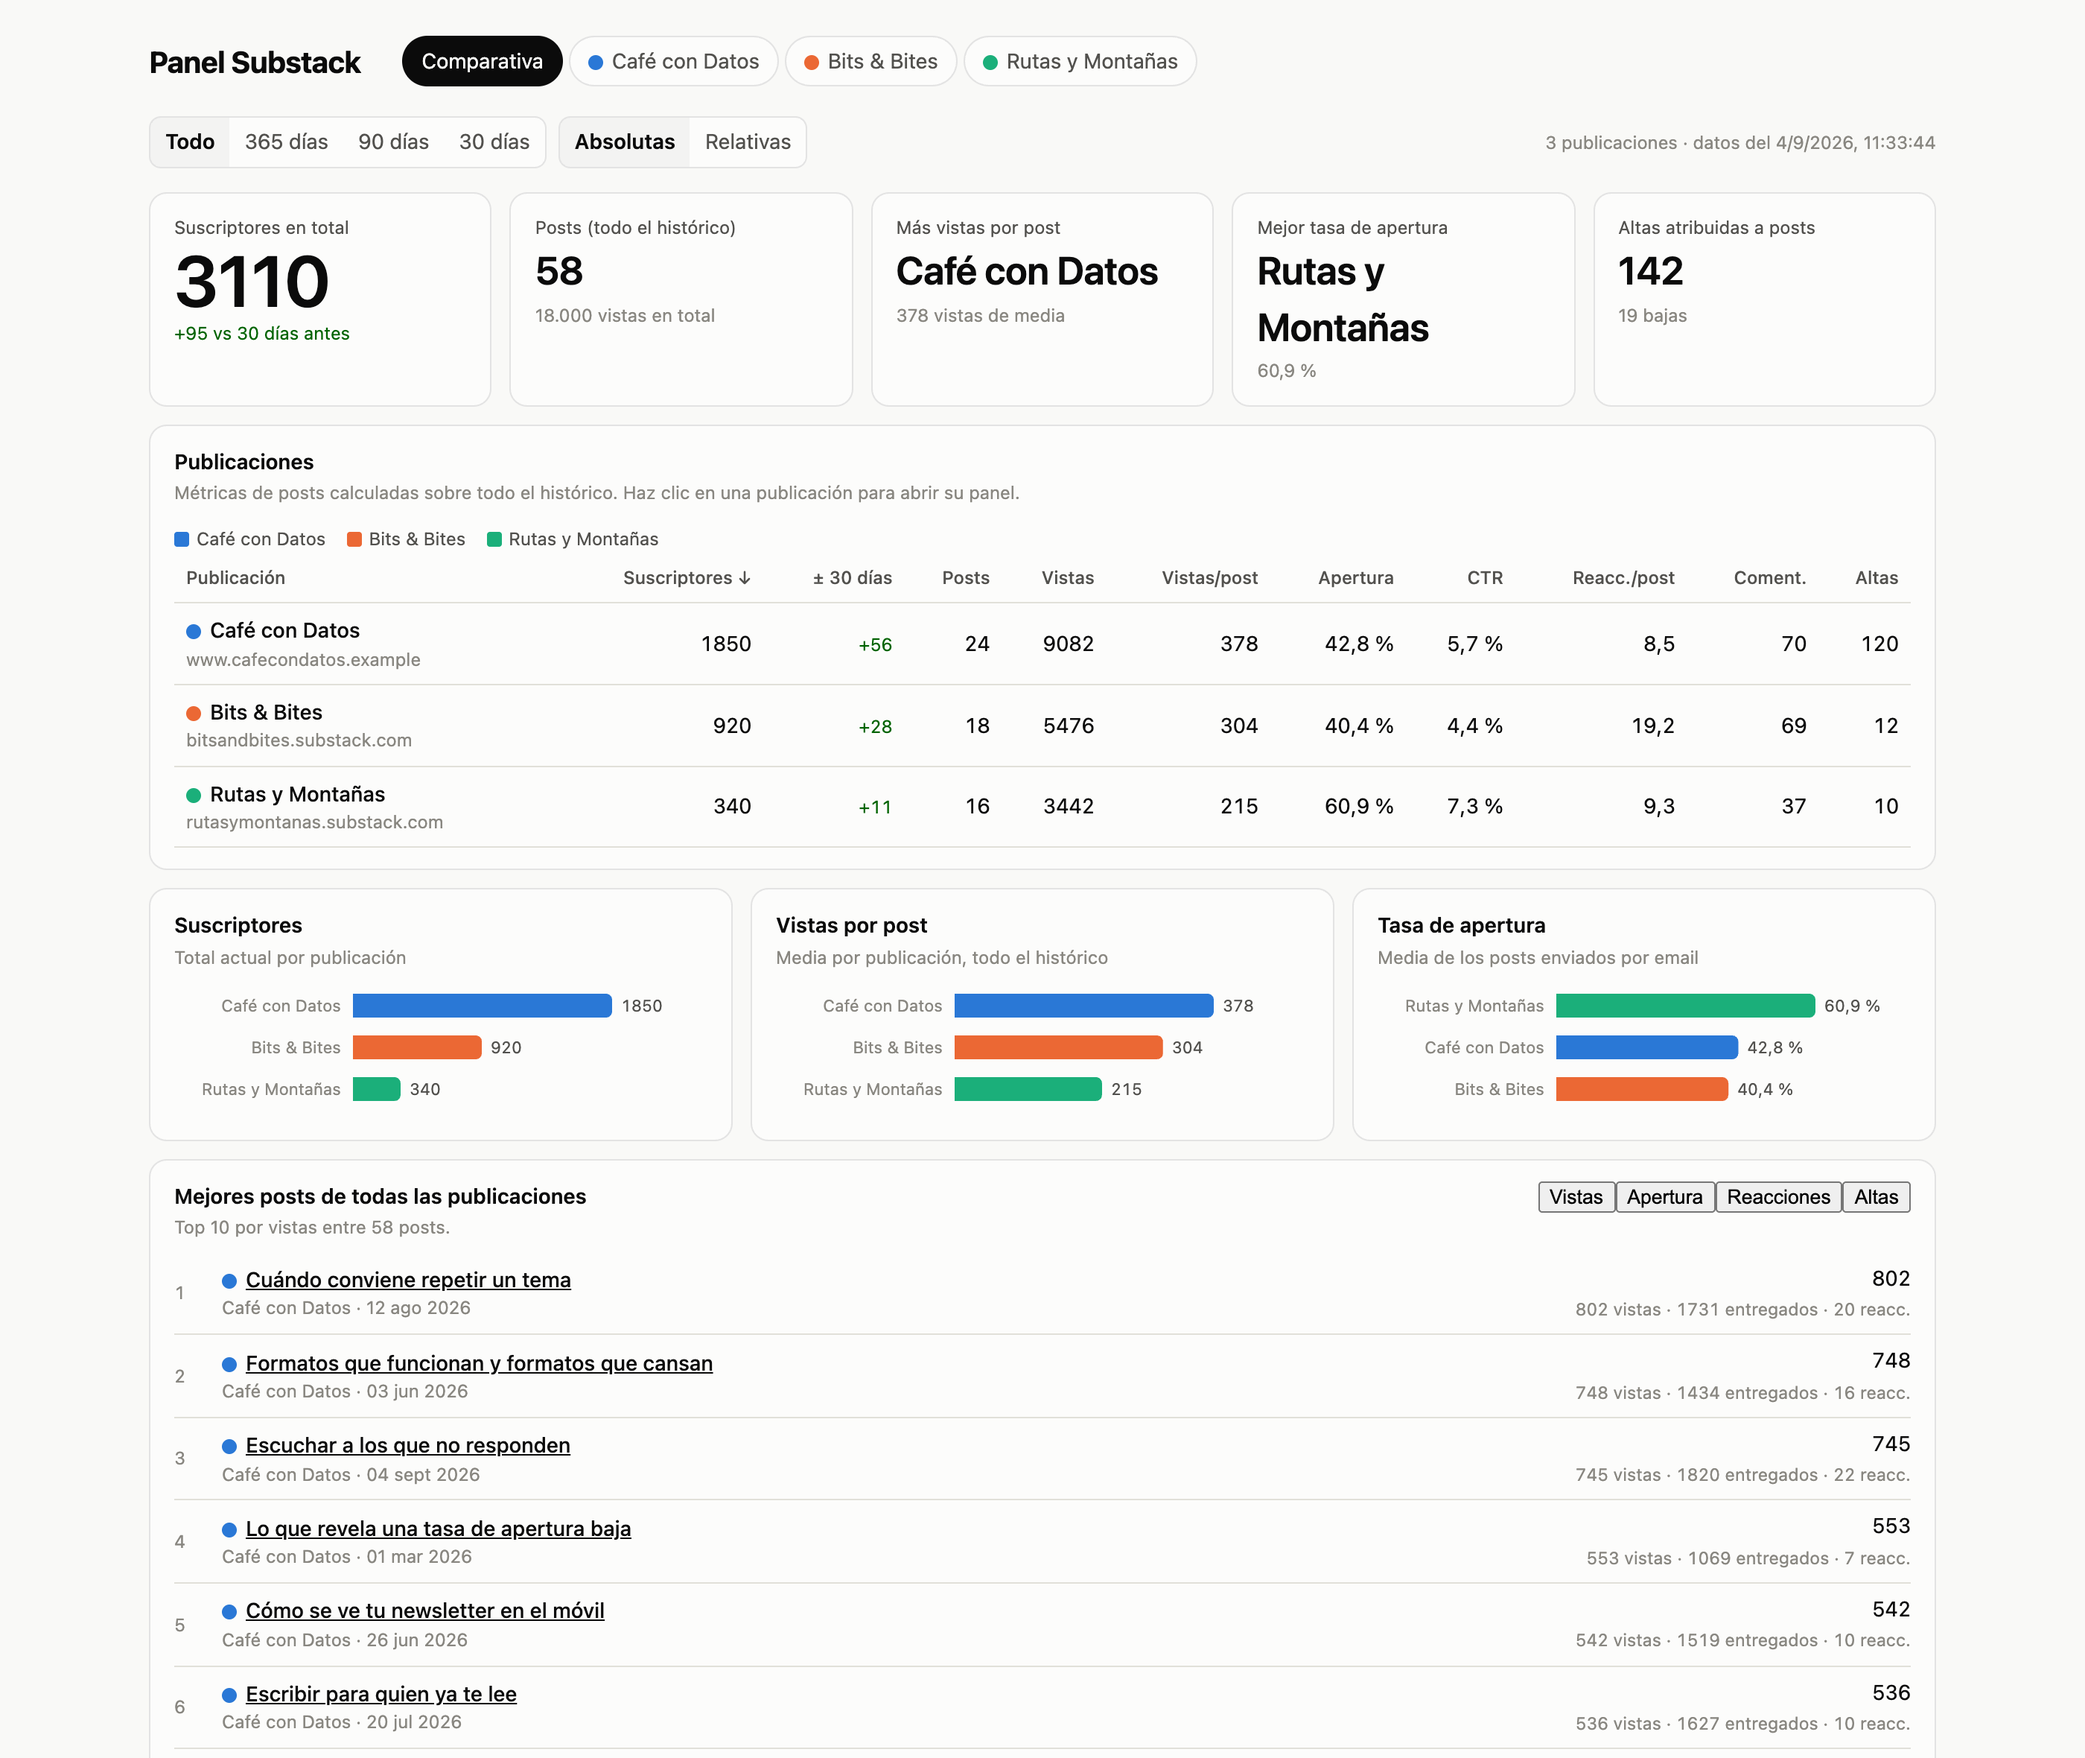
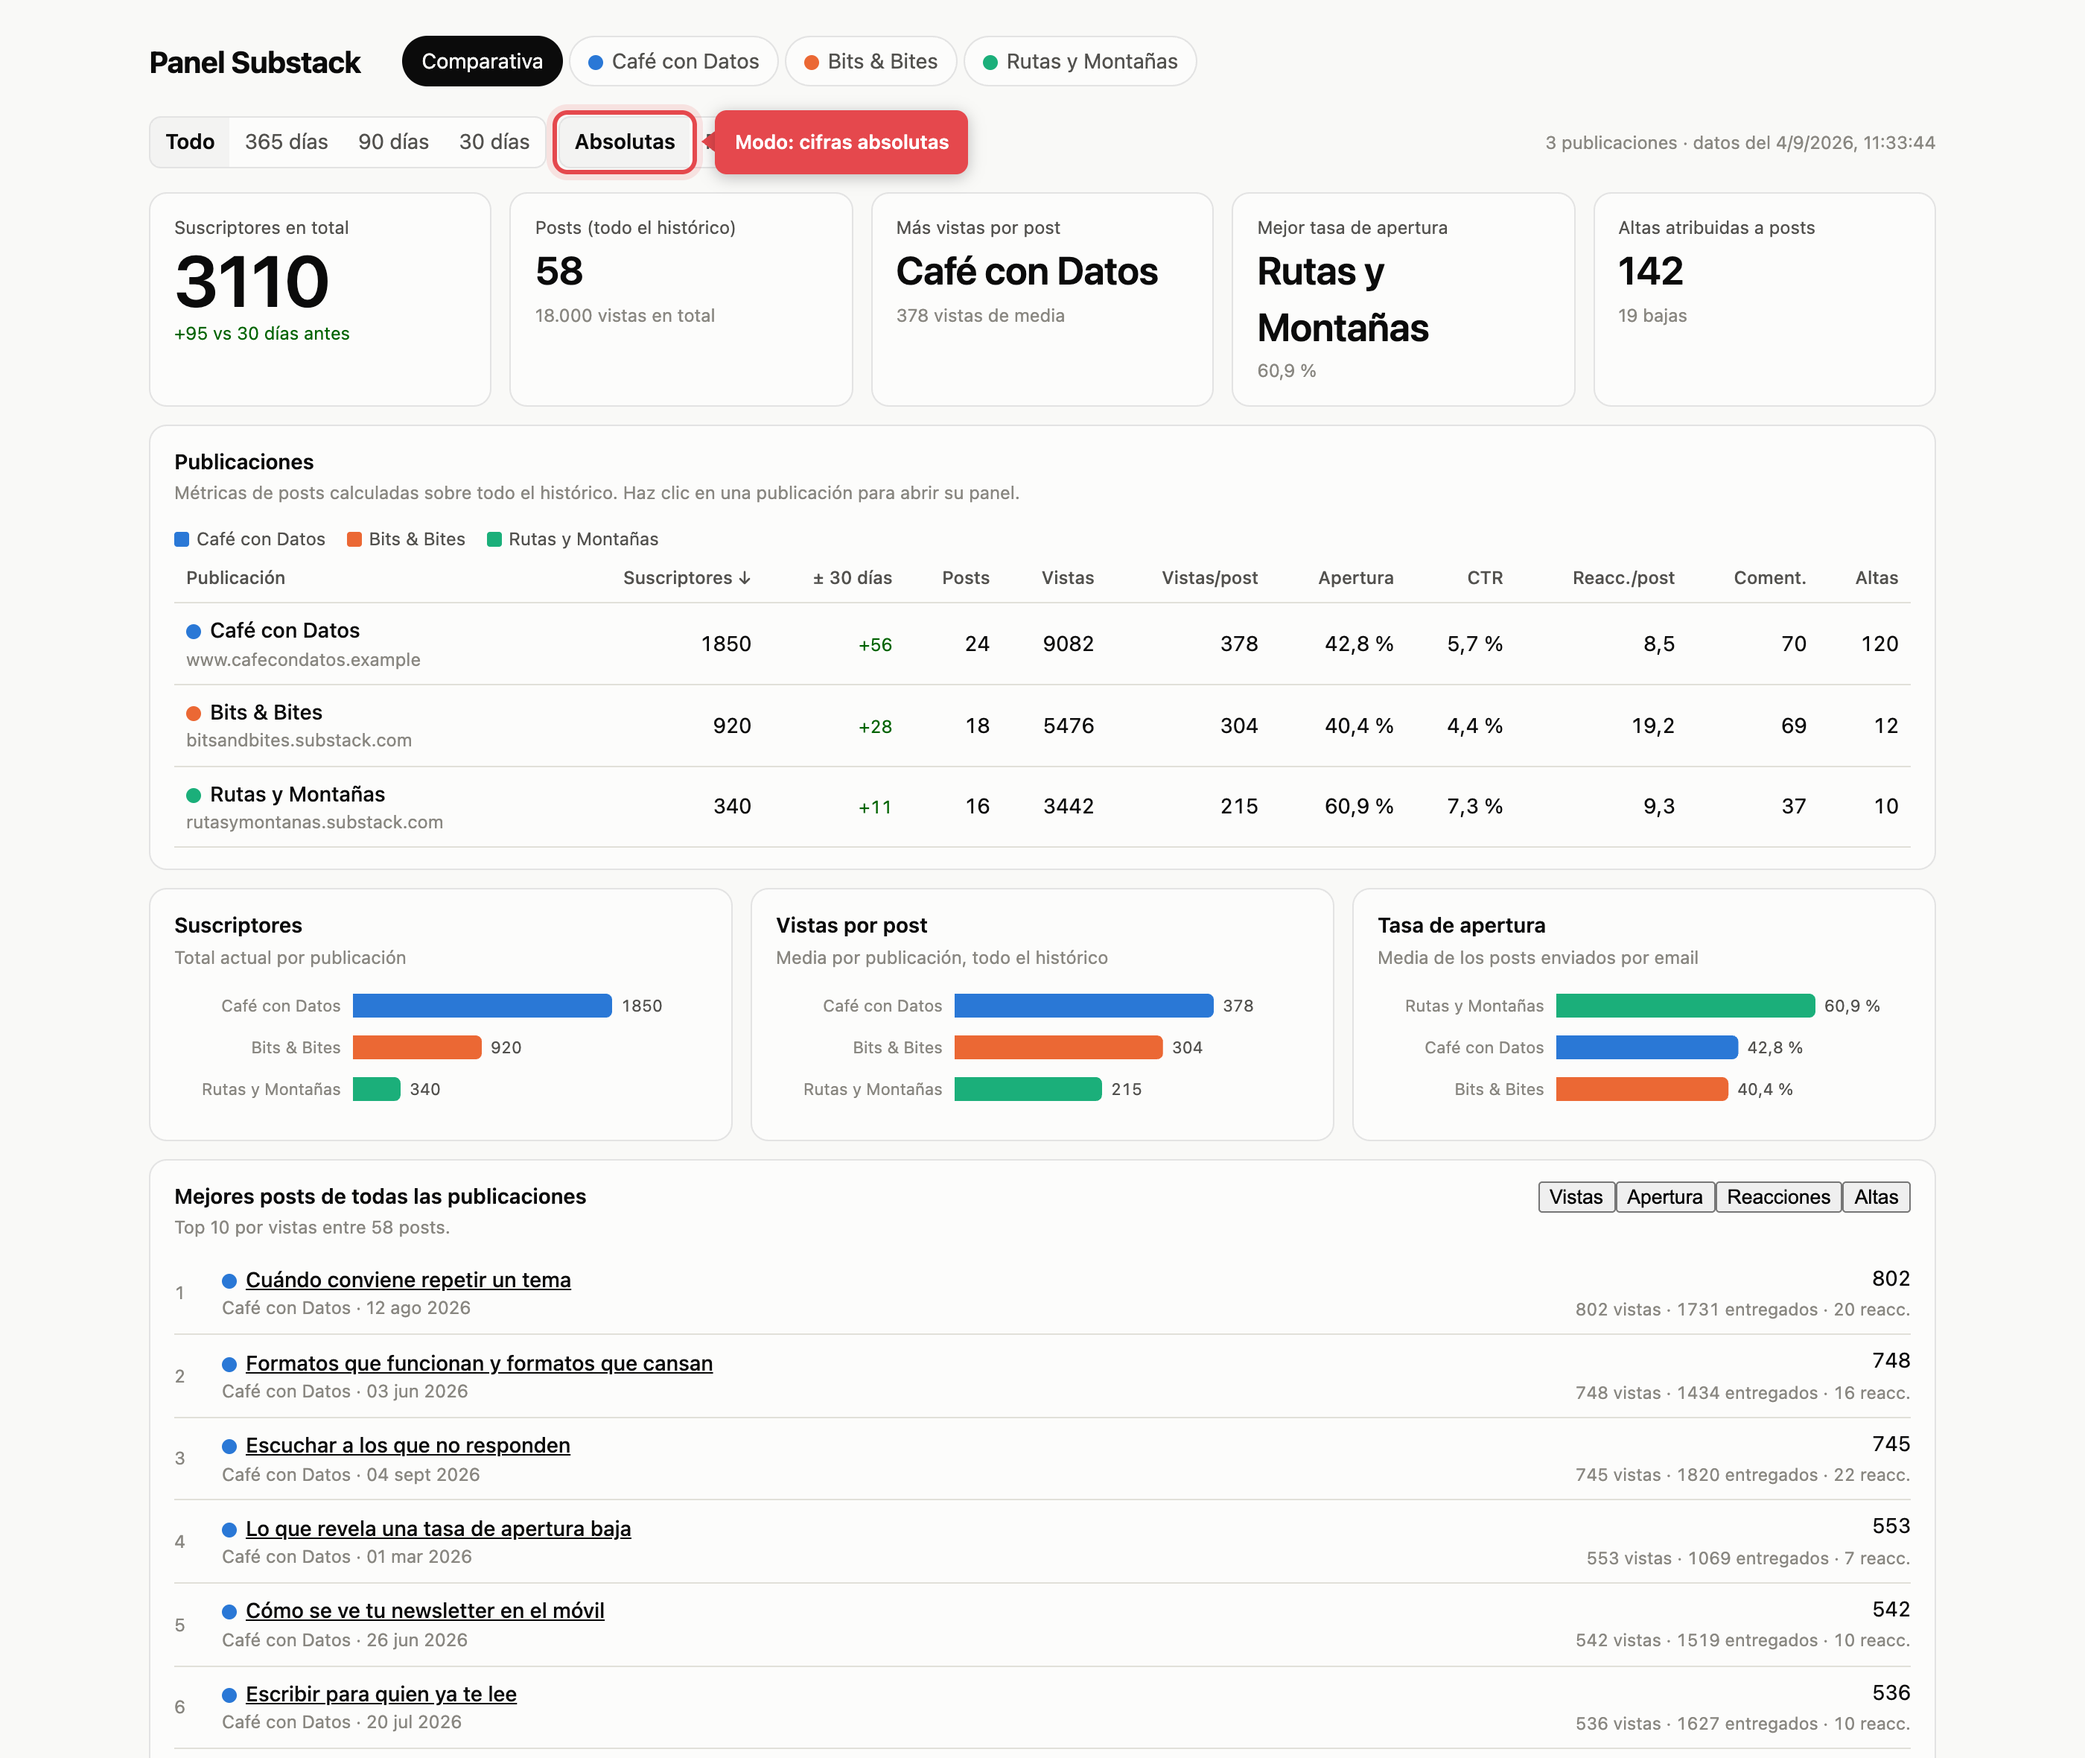
Mark the active mode in the comparison screenshots
The two comparison images differ only in which toggle is pressed, and with a
screen this dense that difference is easy to miss. The caption said which was
which, but the reader had to take the text's word for it.

Both now carry a red outline around the pressed toggle with a label naming the
mode, drawn as an overlay just before the capture, so the annotation lives in
the screenshot pipeline rather than in the dashboard. It sits to the right of
the control: placed below, it covered the explanatory note in one image and the
headline tiles in the other. Both READMEs note that the marker is documentation,
not interface, so nobody goes looking for a red box in their own dashboard.

Changed region(s): [[0.3107, 0.0619, 0.4661, 0.1237]]

diff --git a/README.md b/README.md
@@ -9,7 +9,7 @@ Substack has no public API. Its writer dashboard talks to a private JSON API und
 
 ## What it looks like
 
-The screenshots below use **fictitious data** generated by `npm run demo` — no real publication is shown. The interface is in Spanish.
+The screenshots below use **fictitious data** generated by `npm run demo` — no real publication is shown. The interface is in Spanish. The red marker is an annotation added for this documentation; it is not part of the interface.
 
 **Comparison across publications, absolute numbers.** The biggest list wins almost everything, and the global top 10 is filled by a single publication:
 

diff --git a/README.es.md b/README.es.md
@@ -9,7 +9,7 @@ Substack no tiene API pública. Su panel de escritor habla con una API privada e
 
 ## Qué aspecto tiene
 
-Las capturas usan **datos ficticios** generados con `npm run demo`. No aparece ninguna publicación real.
+Las capturas usan **datos ficticios** generados con `npm run demo`. No aparece ninguna publicación real. El recuadro rojo es una anotación de esta documentación, no forma parte de la interfaz.
 
 **Comparativa entre publicaciones, cifras absolutas.** La lista más grande gana en casi todo y el top 10 global lo copa una sola publicación:
 
